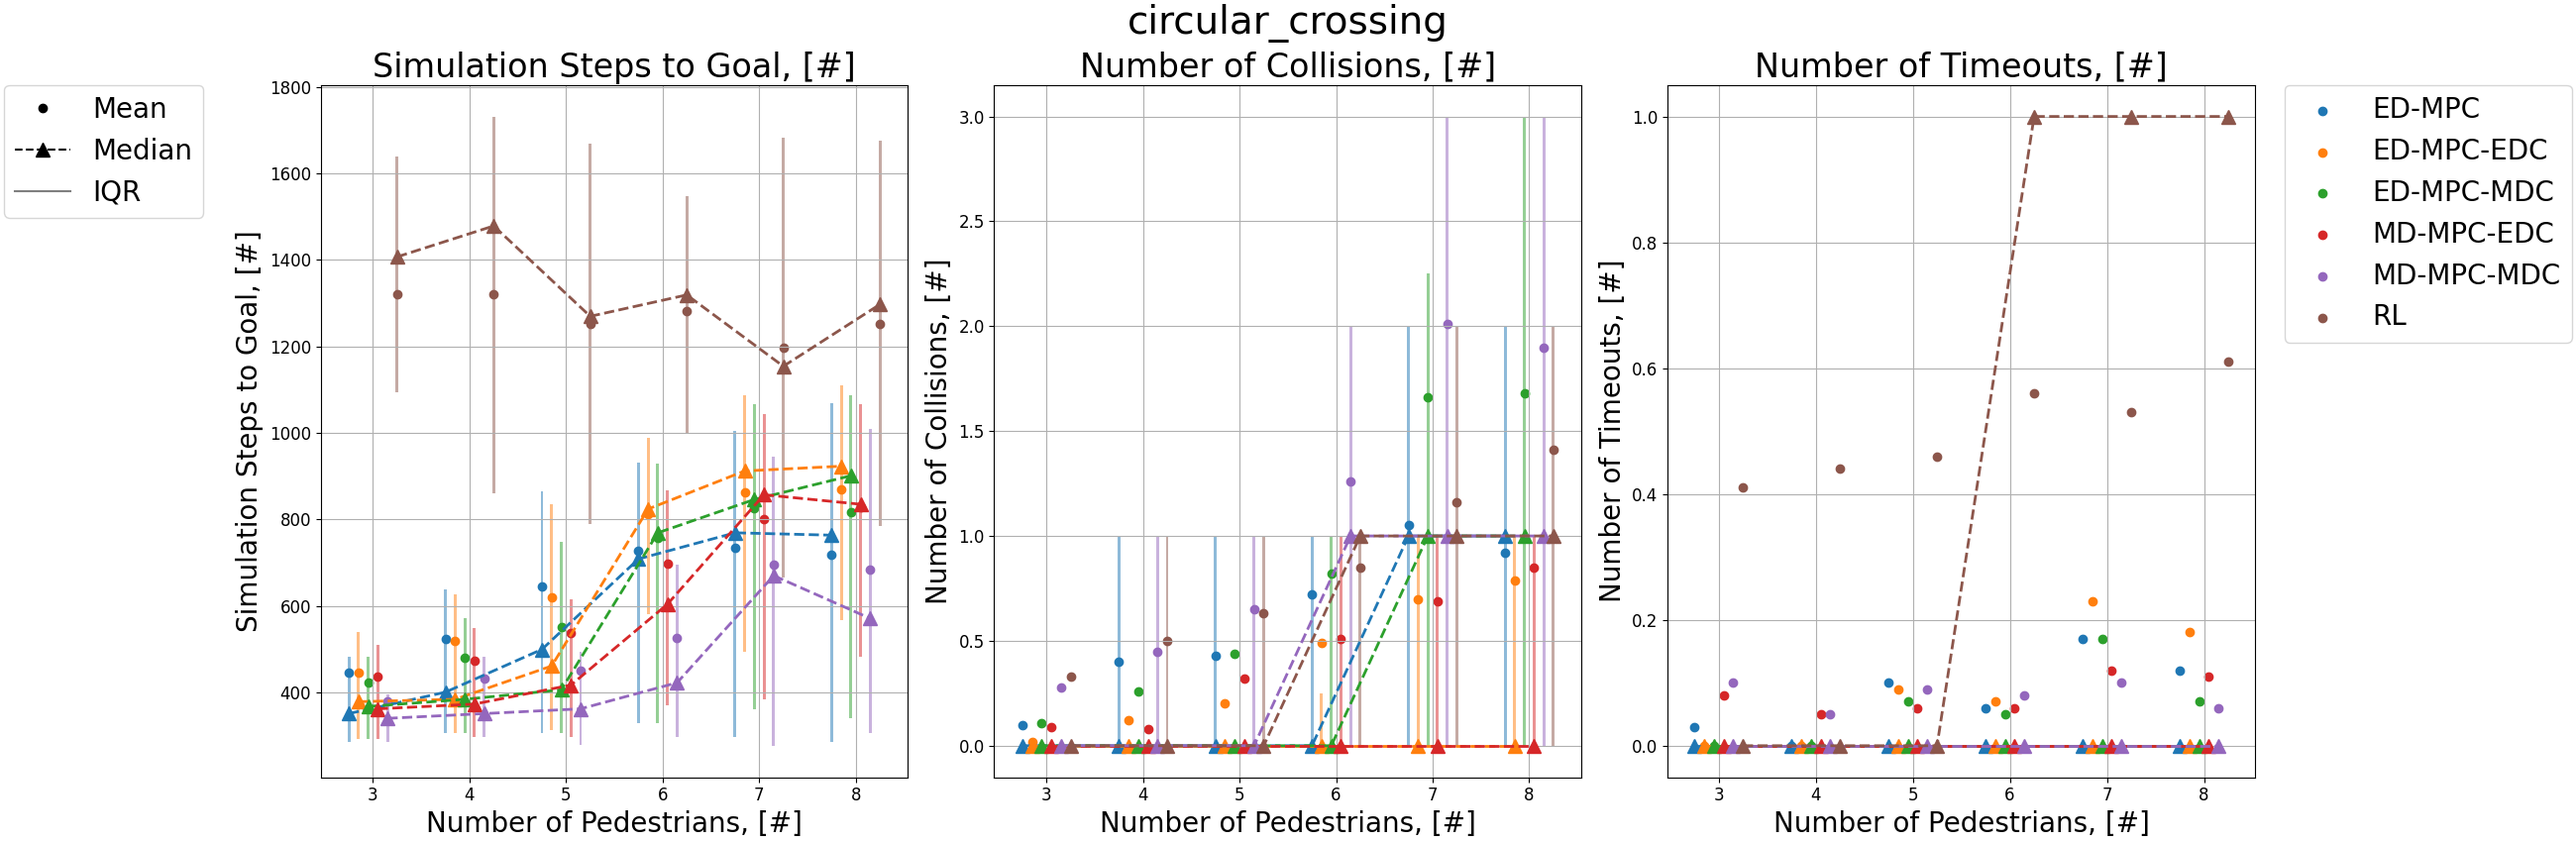
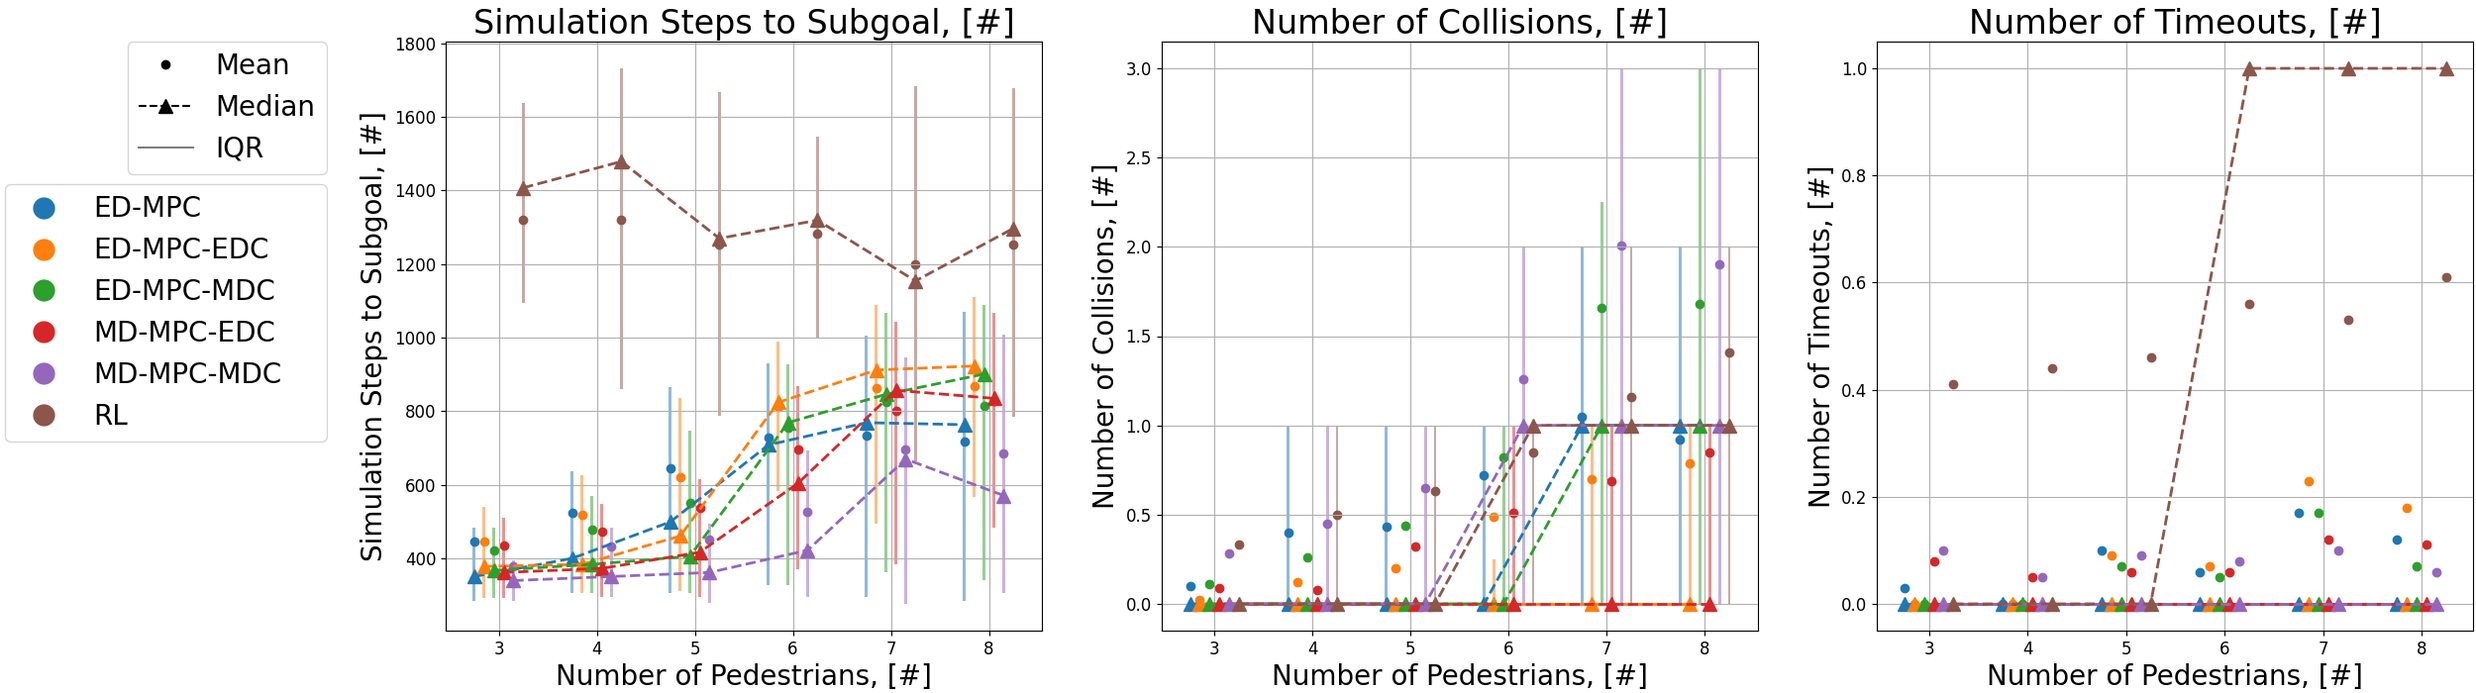
Changes in stats plot builder

diff --git a/evaluation/scripts/collect_statistics_2.py b/evaluation/scripts/collect_statistics_2.py
@@ -3,7 +3,7 @@ import numpy as np
 import pandas as pd
 import matplotlib as mpl
 import matplotlib.pyplot as plt
-from matplotlib.patches import Rectangle, Patch
+from matplotlib.patches import Rectangle, Patch, Circle
 from matplotlib.lines import Line2D
 import fire
 import pathlib
@@ -55,10 +55,11 @@ def collect_statistics(folder_name: str,
 
         # Create mean plot
         fig_graph, axs_graph = plt.subplot_mosaic([[0, 1, 2]], 
-                                figsize=[26, 8.5], facecolor='white', layout='constrained')
-        fig_graph.suptitle(scenes_list[scene_id], fontsize=28)
+                                figsize=[25, 7], facecolor='white') #, layout='constrained'
+        #fig_graph.suptitle(scenes_list[scene_id], fontsize=28)
 
         displacement = np.linspace(-0.25, 0.25, len(controller_list))
+        legend_elements_controllers = []
         for controller_id, controller in enumerate(controller_list):
             for total_peds_id, total_peds in enumerate(pedestrian_range):
                 list_sim_ticks_for_scenario_batch = []
@@ -108,11 +109,11 @@ def collect_statistics(folder_name: str,
                 # Calculate quantile 25
                 q25_sim_ticks_for_scenario_batch = round(np.quantile(np.array(list_sim_ticks_for_scenario_batch), 0.25), 3)
                 q25_collisions_for_scenario_batch = round(np.quantile(np.array(list_collisions_for_scenario_batch), 0.25), 3)
-                #q25_timeouts_for_scenario_batch = round(np.quantile(np.array(list_timeouts_for_scenario_batch), 0.25), 3)
+                q25_timeouts_for_scenario_batch = round(np.quantile(np.array(list_timeouts_for_scenario_batch).astype(int), 0.25), 3)
                 # Calculate quantile 75
                 q75_sim_ticks_for_scenario_batch = round(np.quantile(np.array(list_sim_ticks_for_scenario_batch), 0.75), 3)
                 q75_collisions_for_scenario_batch = round(np.quantile(np.array(list_collisions_for_scenario_batch), 0.75), 3)
-                #q75_timeouts_for_scenario_batch = round(np.quantile(np.array(list_timeouts_for_scenario_batch), 0.75), 3)
+                q75_timeouts_for_scenario_batch = round(np.quantile(np.array(list_timeouts_for_scenario_batch).astype(int), 0.75), 3)
                 
                 # Add calculated data into the table
                 tables_data[scene_id, controller_id, total_peds_id] = f"{mean_sim_ticks_for_scenario_batch}±{std_sim_ticks_for_scenario_batch}"  # simulation_ticks
@@ -132,12 +133,12 @@ def collect_statistics(folder_name: str,
                 # Add q25 to the graph table
                 q25_tables_data[scene_id, controller_id, total_peds_id] = q25_sim_ticks_for_scenario_batch
                 q25_tables_data[scene_id, controller_id, total_peds_id+len(pedestrian_range)] = q25_collisions_for_scenario_batch
-                #q25_tables_data[scene_id, controller_id, total_peds_id+len(pedestrian_range)*2] = q25_timeouts_for_scenario_batch
+                q25_tables_data[scene_id, controller_id, total_peds_id+len(pedestrian_range)*2] = q25_timeouts_for_scenario_batch
 
                 # Add q75 to the graph table
                 q75_tables_data[scene_id, controller_id, total_peds_id] = q75_sim_ticks_for_scenario_batch
                 q75_tables_data[scene_id, controller_id, total_peds_id+len(pedestrian_range)] = q75_collisions_for_scenario_batch
-                #q75_tables_data[scene_id, controller_id, total_peds_id+len(pedestrian_range)*2] = q75_timeouts_for_scenario_batch
+                q75_tables_data[scene_id, controller_id, total_peds_id+len(pedestrian_range)*2] = q75_timeouts_for_scenario_batch
 
             # Create graph
             # Simulation step to goal
@@ -150,8 +151,8 @@ def collect_statistics(folder_name: str,
                 add_box(axs_graph[0], center_range[controller_id], q25, q75, color=DEFAULT_COLOR_HEX_PALETTE[controller_id], width=0.03, alpha=0.5)
             axs_graph[0].grid(True)
             axs_graph[0].set_xlabel("Number of Pedestrians, [#]", fontsize=SIZE)
-            axs_graph[0].set_ylabel("Simulation Steps to Goal, [#]", fontsize=SIZE)
-            axs_graph[0].set_title("Simulation Steps to Goal, [#]", fontsize=SIZE*1.2)
+            axs_graph[0].set_ylabel("Simulation Steps to Subgoal, [#]", fontsize=SIZE)
+            axs_graph[0].set_title("Simulation Steps to Subgoal, [#]", fontsize=SIZE*1.2)
             axs_graph[0].tick_params(labelsize=12)
             #axs_graph[0].legend(fontsize=size)
             legend_elements = [Line2D([0], [0], color='black', marker="o", lw=0, label='Mean'),
@@ -177,19 +178,34 @@ def collect_statistics(folder_name: str,
             # Timeouts
             axs_graph[2].scatter(pedestrian_range + displacement[controller_id], mean_tables_data[scene_id, controller_id, len(pedestrian_range)*2:], linewidth=1, label=f"{controller}", marker="o", color=DEFAULT_COLOR_HEX_PALETTE[controller_id])
             axs_graph[2].plot(pedestrian_range + displacement[controller_id], median_tables_data[scene_id, controller_id, len(pedestrian_range)*2:], linewidth=2, linestyle="--", marker="^", markersize=SIZE//2, color=DEFAULT_COLOR_HEX_PALETTE[controller_id])
+            # for i, ped in enumerate(pedestrian_range):
+            #     center_range = np.linspace(-0.25, 0.25, len(controller_list)) + ped
+            #     q25 = q25_tables_data[scene_id, controller_id, i+len(pedestrian_range)*2]
+            #     q75 = q75_tables_data[scene_id, controller_id, i+len(pedestrian_range)*2]
+            #     add_box(axs_graph[2], center_range[controller_id], q25, q75, color=DEFAULT_COLOR_HEX_PALETTE[controller_id], width=0.03, alpha=0.5)
             axs_graph[2].grid(True)
             axs_graph[2].set_xlabel("Number of Pedestrians, [#]", fontsize=SIZE)
             axs_graph[2].set_ylabel("Number of Timeouts, [#]", fontsize=SIZE)
             axs_graph[2].set_title("Number of Timeouts, [#]", fontsize=SIZE*1.2)
             axs_graph[2].tick_params(labelsize=12)
             # Legend
-            axs_graph[2].legend(bbox_to_anchor=(1.05, 1), loc='upper left', borderaxespad=0., fontsize=20)
-
+            #axs_graph[2].legend(bbox_to_anchor=(1.05, 1), loc='upper left', borderaxespad=0., fontsize=20)
+            legend_elements_controllers.append(Line2D([0], [0], color=DEFAULT_COLOR_HEX_PALETTE[controller_id], lw=0, marker="o", markersize=15, label=controller))
 
         # Save histogram figure
         fig_hist.savefig(fr"evaluation/studies/{folder_name}/results/plots/{scene}_distribution.png")
         
         # Save mean plot
+        fig_graph.legend(handles=legend_elements_controllers, bbox_to_anchor=(0.002, 0.363, 0.13, 1.003),
+                        loc='lower left', mode="expand", ncols=1, borderaxespad=0., fontsize=20)
+        
+        fig_graph.subplots_adjust(left=0.18,
+                    bottom=0.09,
+                    right=0.999,
+                    top=0.94,
+                    wspace=0.2,
+                    hspace=0)
+        
         fig_graph.savefig(fr"evaluation/studies/{folder_name}/results/plots/{scene}_graph.png")
 
     # convert array into dataframe

diff --git a/evaluation/scripts/start_experiments_pipeline.py b/evaluation/scripts/start_experiments_pipeline.py
@@ -8,7 +8,7 @@ from generate_scenes import generate_scenes
 from conduct_experiments import conduct_experiments
 from collect_statistics_2 import collect_statistics
 
-DEFAULT_EXPERIMENT_CONFIG_PATH = r"evaluation/studies/study_3/configs/experiments/experiment_config.yaml"
+DEFAULT_EXPERIMENT_CONFIG_PATH = r"evaluation/studies/study_2/configs/experiments/experiment_config.yaml"
 
 def run_experiment(experiment_config_path: str = DEFAULT_EXPERIMENT_CONFIG_PATH) -> None:
     
@@ -36,7 +36,7 @@ def run_experiment(experiment_config_path: str = DEFAULT_EXPERIMENT_CONFIG_PATH)
                         experiment_config["seed"])
         print("--------------------Scenes are generated!--------------------")
 
-    if True:
+    if False:
         # Conduct experiments
         print("-------------2. Starting to conduct experiments!-------------")
         input_data_list = []
@@ -53,7 +53,7 @@ def run_experiment(experiment_config_path: str = DEFAULT_EXPERIMENT_CONFIG_PATH)
         _ = pool.starmap(conduct_experiments, input_data_list)
         print("------------------Experiments are conducted!-----------------")
     
-    if False:
+    if True:
         # Form statistics
         print("----------3. Starting to form statistics and plots!----------")
         collect_statistics(experiment_config["folder_name"],
